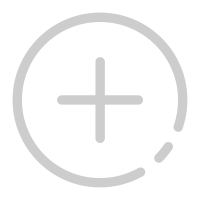
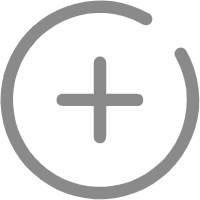
第一次bug修改

diff --git a/pages/son/bind/bind.vue b/pages/son/bind/bind.vue
@@ -157,7 +157,7 @@ export default {
     inputDialogToggle1(item) {
       this.changeParentNameItem = item;
       console.log(this.changeParentNameItem);
-      this.$refs[`changeParentNameItem${item.userId}`][0].open();
+      this.$refs[`inputBind${item.userId}`][0].open();
     },
     dialogInputConfirm(val) {
       console.log("点击确认后的input框的内容", val);
@@ -173,15 +173,14 @@ export default {
         });
       } else {
         const data1 = {
-          changeId: uni.getStorageSync("userId"),
-          beChangerId: uni.getStorageSync("beChangeId"),
+          userId: uni.getStorageSync("userId"),
           name: this.value,
         };
         uni.$http
           .post("/child/homepage/change-user-name", data1)
           .then((res) => {
             if (res.data.code == "00000") {
-              console.log("修改绑定人的姓名成功");
+              console.log("修改用户名成功");
               uni.showToast({
                 title: "修改用户名成功",
                 icon: "none",
@@ -200,12 +199,6 @@ export default {
             console.log(err);
           });
       }
-      setTimeout(() => {
-        uni.hideLoading();
-        console.log(val);
-        // 关闭窗口后，恢复默认内容
-        this.$refs.inputDialog.close();
-      }, 2000);
     },
     // 已绑定人的修改姓名
     dialogInputConfirm1(val) {
@@ -230,16 +223,16 @@ export default {
           .post("/child/homepage/change-parent-name", data1)
           .then((res) => {
             if (res.data.code == "00000") {
-              console.log("修改用户名成功");
+              console.log("修改备注成功");
               uni.showToast({
-                title: "修改用户名成功",
+                title: "修改备注成功",
                 icon: "none",
                 duration: 3000,
               });
             } else {
-              console.log("修改用户名失败==200");
+              console.log("修改备注失败==200");
               uni.showToast({
-                title: "修改用户名失败",
+                title: "修改备注失败",
                 icon: "error",
                 duration: 3000,
               });
@@ -249,12 +242,6 @@ export default {
             console.log(err);
           });
       }
-      setTimeout(() => {
-        uni.hideLoading();
-        console.log(val);
-        // 关闭窗口后，恢复默认内容
-        this.$refs.inputDialog.close();
-      }, 2000);
     },
   },
 };

diff --git a/pages/son/addMsg/addMsg.vue b/pages/son/addMsg/addMsg.vue
@@ -54,10 +54,19 @@
         <div class="voiceList bottomChild" @click="getVoiceList">
           <image id="icon" src="../../../static/voicelist.png"></image>
         </div>
-        <div class="luyin bottomChild" @longtap="saysay" @touchend="saydone">
+        <div
+          class="luyin bottomChild"
+          @longtap="saysay"
+          @touchend="saydone"
+          style="margin-left: 11px"
+        >
           <image id="icon" src="../../../static/huatong-2.png"></image>
         </div>
-        <div class="alerk bottomChild" @click="setcolckPop">
+        <div
+          class="alerk bottomChild"
+          @click="setcolckPop"
+          style="margin-left: 6px; margin-bottom: 3px"
+        >
           <image id="icon" src="../../../static/clerk.png"></image>
         </div>
       </div>
@@ -86,11 +95,7 @@
       </div>
     </div>
     <div class="addIcon">
-      <image
-        id="addmsg"
-        src="../../../static/xinjian01.png"
-        @click="add"
-      ></image>
+      <image id="addmsg" src="../../../static/add.png" @click="add"></image>
     </div>
     <div class="lastBottom">
       <view class="perText" style="margin-right: 20px" @click="playVoice">
@@ -489,18 +494,12 @@ export default {
     }
   }
   .bottom {
-    // position: absolute;
-    // right: 10px;
-    // bottom: 10px;
     box-sizing: border-box;
     width: 100%;
     padding-right: 20px;
     display: flex;
     justify-content: flex-end;
     align-items: center;
-    .bottomChild {
-      margin-left: 8px;
-    }
   }
 }
 .popup-date {

diff --git a/pages/old/newMemo/newMemo.vue b/pages/old/newMemo/newMemo.vue
@@ -79,14 +79,13 @@ export default {
     this.innerAudioContext = uni.createInnerAudioContext();
     this.innerAudioContext.autoplay = true;
     console.log("uni.getRecorderManager()", uni.getRecorderManager());
-    let self = this;
-    this.recorderManager.onStop(function (res) {
+    this.recorderManager.onStop((res) => {
       console.log("recorder stop" + JSON.stringify(res));
-      self.getLength.endTimestamp = Date.now();
-      self.voicePath = res.tempFilePath;
-      self.voiceLength = parseInt(
-        (self.getLength.endTimestamp - self.getLength.startTimestamp) / 1000 + 1
-      );
+      this.voicePath = res.tempFilePath;
+      this.voiceLength =
+        parseInt(
+          (this.getLength.endTimestamp - this.getLength.startTimestamp) / 1000
+        ) + 1;
     });
   },
   methods: {
@@ -186,11 +185,13 @@ export default {
       this.yesVideo = true;
     },
     saydone() {
+      this.getLength.endTimestamp = Date.now();
       console.log("saydone");
+      this.endRecord();
       setTimeout(() => {
         if (this.yesVideo) {
-          this.endRecord();
           this.$refs.popup.close();
+          console.log(this.voiceLength);
           if (this.voiceLength < 2) {
             uni.showToast({
               icon: "error",
